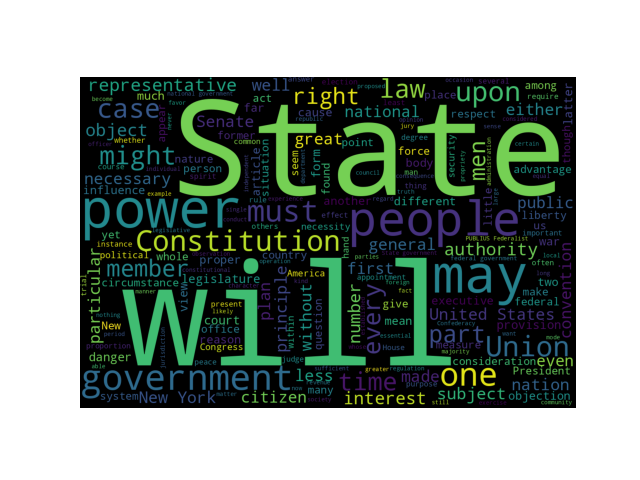
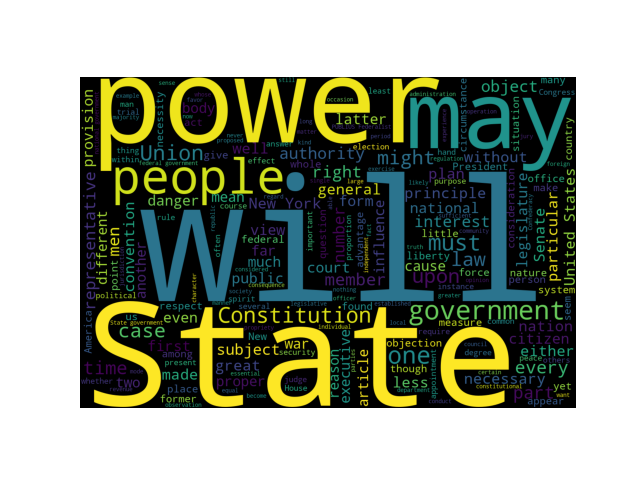
revamped project for CS 610

diff --git a/coding-projects/Text-Analysis/main.py b/coding-projects/Text-Analysis/main.py
@@ -1,5 +1,78 @@
-from word_cloud import word_cloud_generator
-from word_count import word_counter
+from collections import Counter
+from pprint import pprint as pp
+from matplotlib import pyplot as plt
+from wordcloud import STOPWORDS, WordCloud
 
-word_counter("federalist_papers.txt")
-word_cloud_generator("constitution.txt")
+import requests
+from bs4 import BeautifulSoup
+
+FED_PAPERS = "federalist_papers_test.txt"
+
+
+def download_fed_papers():
+    sources = [
+        "https://guides.loc.gov/federalist-papers/text-1-10",
+        "https://guides.loc.gov/federalist-papers/text-11-20",
+        "https://guides.loc.gov/federalist-papers/text-21-30",
+        "https://guides.loc.gov/federalist-papers/text-31-40",
+        "https://guides.loc.gov/federalist-papers/text-41-50",
+        "https://guides.loc.gov/federalist-papers/text-51-60",
+        "https://guides.loc.gov/federalist-papers/text-61-70",
+        "https://guides.loc.gov/federalist-papers/text-71-80",
+        "https://guides.loc.gov/federalist-papers/text-81-85",
+    ]
+
+    for s in sources:
+        source = requests.get(s).text
+
+        soup = BeautifulSoup(source, "lxml")
+
+        with open(FED_PAPERS, "a") as f:
+            for paper in soup.find_all("div", class_="s-lib-box s-lib-box-std"):
+                title = paper.h2.text
+                if title != "Table of Contents ":
+                    f.write(title)
+                    for para in paper.find_all("p"):
+                        f.write(para.text + "\n\n")
+                    f.write("-" * len(title) + "\n\n")
+
+
+def get_stopwords(stopwords="wordlist.txt"):
+    with open(stopwords) as f:
+        return [word.strip() for word in f.readlines()]
+
+
+def word_counter(filename):
+    stopwords = get_stopwords()
+
+    with open(filename) as f:
+        word_counts = Counter()
+        for line in f.readlines():
+            word_counts.update(
+                word.strip(".,()")
+                for word in line.lower().split()
+                if word.strip("().,") not in stopwords
+            )
+
+    print(f"The most common words found in {filename} are:")
+    pp(word_counts.most_common(30))
+
+
+def word_cloud_generator(filename):
+    with open(filename, "r") as text:
+        text_string = " ".join(line for line in text)
+
+    wordcloud = WordCloud(width=1200, height=800, stopwords=STOPWORDS).generate(
+        text_string
+    )
+
+    plt.imshow(wordcloud)
+    plt.axis("off")
+    plt.savefig(f"{filename[:-4]}_word_cloud.png", format="png")
+
+
+if __name__ == "__main__":
+    if not FED_PAPERS:
+        download_fed_papers()
+    word_counter("federalist_papers.txt")
+    word_cloud_generator("federalist_papers.txt")

diff --git a/coding-projects/Text-Analysis/word_count.py b/coding-projects/Text-Analysis/word_count.py
@@ -2,12 +2,13 @@ from collections import Counter
 from pprint import pprint as pp
 
 
-def word_counter(filename, stopwords="wordlist.txt"):
-    stopwords_list = []
+def get_stopwords(stopwords="wordlist.txt"):
+    with open(stopwords) as f:
+        return [word.strip() for word in f.readlines()]
 
-    with open(stopwords) as w:
-        for line in w:
-            stopwords_list.append(line.strip("\n"))
+
+def word_counter(filename):
+    stopwords = get_stopwords()
 
     with open(filename) as f:
         word_counts = Counter()
@@ -15,7 +16,7 @@ def word_counter(filename, stopwords="wordlist.txt"):
             word_counts.update(
                 word.strip(".,()")
                 for word in line.lower().split()
-                if word.strip("().,") not in stopwords_list
+                if word.strip("().,") not in stopwords
             )
 
     print(f"The most common words found in {filename} are:")